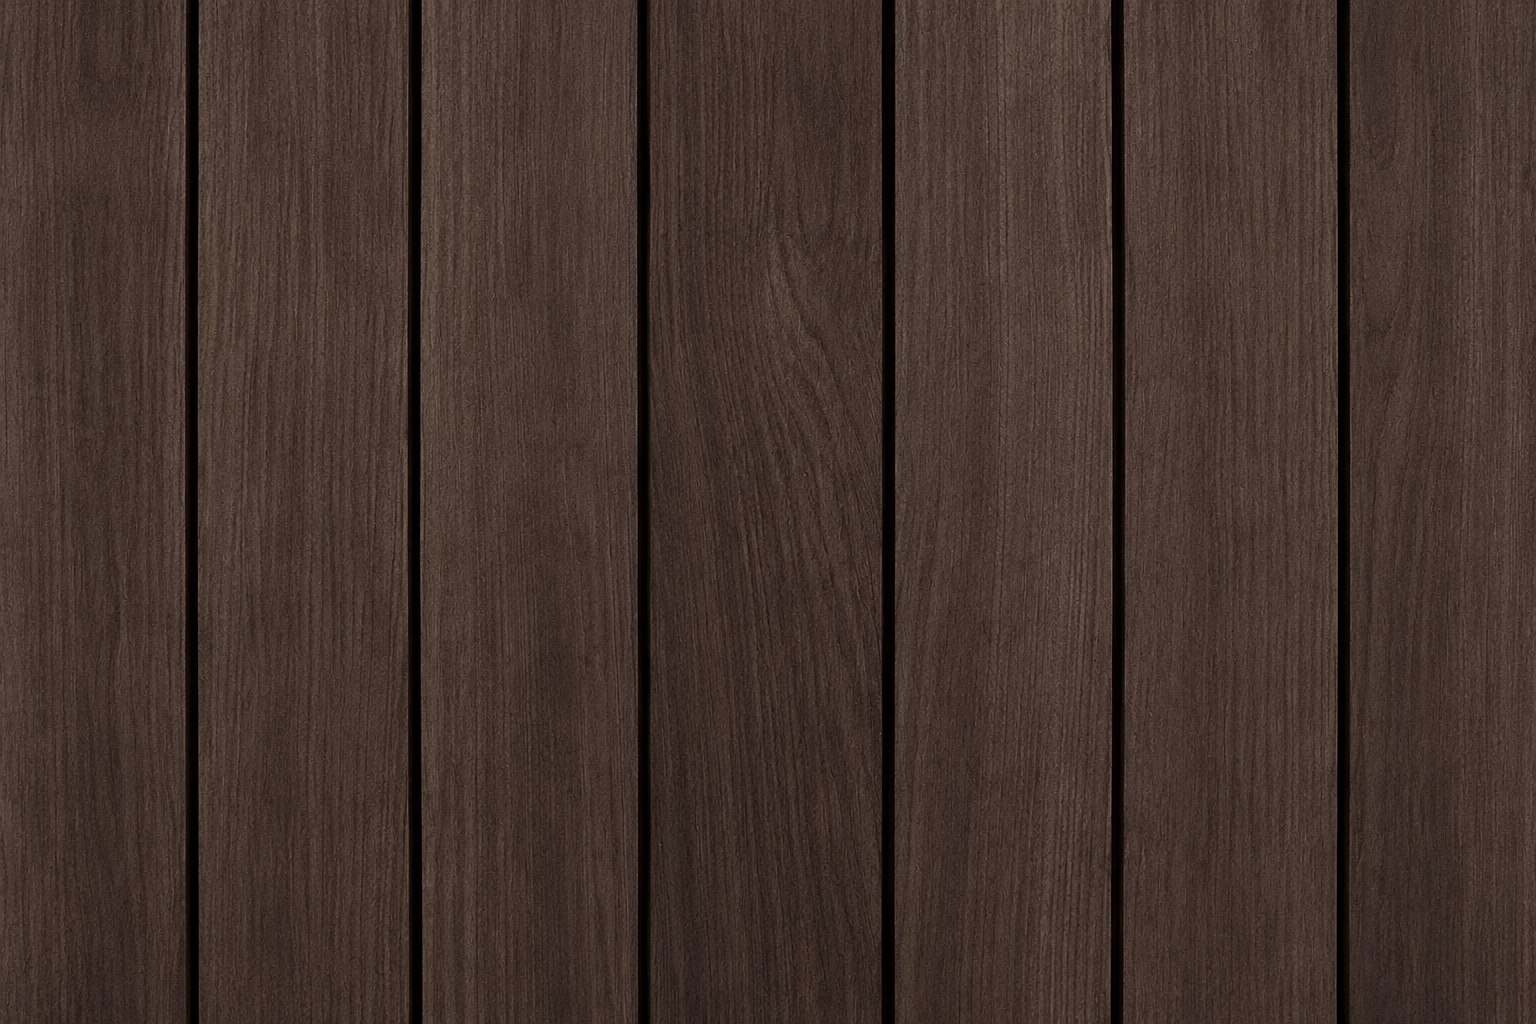
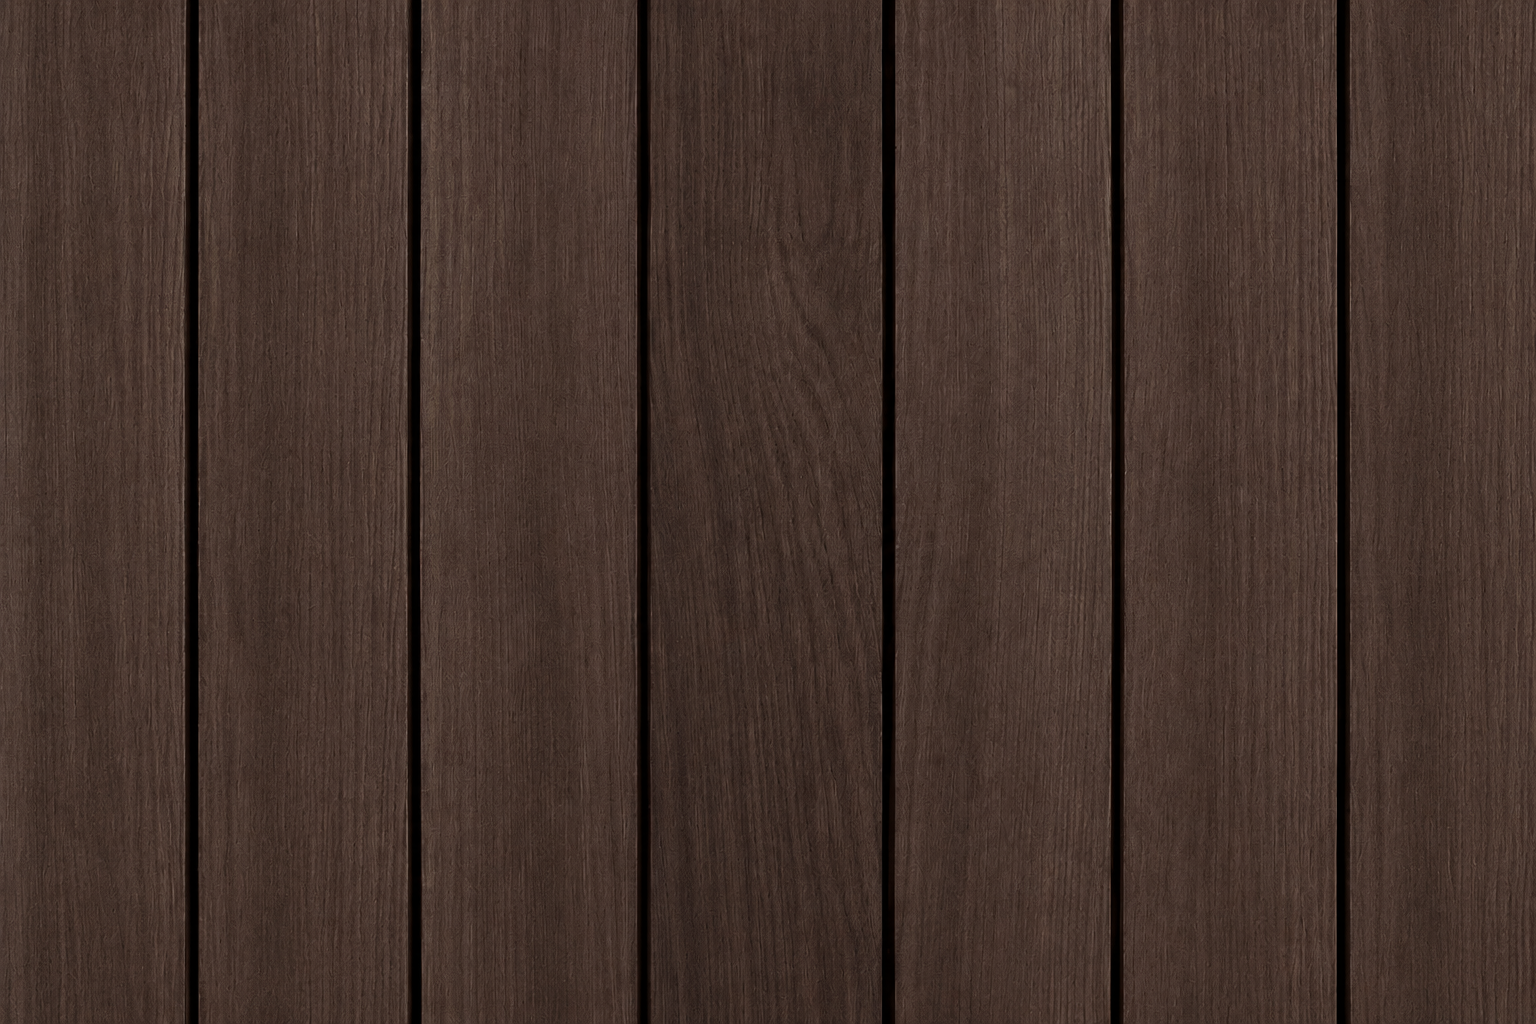
feat: add history management instructions and improve theme caching in Nginx configuration

diff --git a/ansible/usr/share/kiwiirc/static/themes/sdm-dark/theme.css b/ansible/usr/share/kiwiirc/static/themes/sdm-dark/theme.css
@@ -169,6 +169,11 @@ body, #app, .kiwi-wrap, .kiwi-workspace, .kiwi-container {
     z-index: 1 !important;
     width: 100% !important;
     max-width: 420px !important;
+    /* reserva o espaço final do card antes da fonte Nunito carregar — sem
+       isso, o fallback do sistema renderiza ~23px mais baixo e o card
+       "cresce"/reposiciona quando a Nunito troca, dando a impressão de
+       que a página rola para baixo ao carregar. */
+    min-height: 430px !important;
     margin: 0 auto !important;
     text-align: center !important;
     padding: 20px 44px !important;

diff --git a/ansible/usr/share/kiwiirc/static/themes/sdm/theme.css b/ansible/usr/share/kiwiirc/static/themes/sdm/theme.css
@@ -156,6 +156,11 @@ body, #app, .kiwi-wrap, .kiwi-workspace, .kiwi-container {
     z-index: 1 !important;
     width: 100% !important;
     max-width: 420px !important;
+    /* reserva o espaço final do card antes da fonte Nunito carregar — sem
+       isso, o fallback do sistema renderiza ~23px mais baixo e o card
+       "cresce"/reposiciona quando a Nunito troca, dando a impressão de
+       que a página rola para baixo ao carregar. */
+    min-height: 430px !important;
     margin: 0 auto !important;
     text-align: center !important;
     padding: 20px 44px !important;

diff --git a/README.md b/README.md
@@ -934,6 +934,22 @@ Ou via ChanServ (se o canal estiver registrado):
 
 > O modo `+H <entradas>:<segundos>` controla quantas mensagens e por quanto tempo o Ergo mantém por canal. Definir `0:0` desativa o armazenamento para aquele canal.
 
+**3. Verificar o modo de histórico atualmente ajustado no canal:**
+
+```irc
+/mode #canal
+```
+
+A resposta lista os modos ativos do canal; procure por `+H <entradas>:<segundos>` na saída (se o modo `+H` não aparecer, o canal está usando o padrão da rede, definido em `ircd.yaml`).
+
+**4. Voltar ao padrão (remover o override e usar o valor da rede):**
+
+```irc
+/mode #canal -H
+```
+
+Isso remove o modo `+H` do canal, fazendo-o voltar a usar o limite padrão definido na seção `history` do `ircd.yaml` (veja abaixo).
+
 ### Desativar histórico para toda a rede
 
 Edite `/usr/share/ergo/ircd.yaml` e ajuste a seção `history`:
@@ -964,6 +980,34 @@ sudo systemctl reload somdomato-ergo
 # Ou via IRC (requer oper)
 /quote REHASH
 ```
+
+**Verificar a configuração de histórico atualmente ajustada:**
+
+```bash
+# Ver a seção history do arquivo de configuração em uso
+grep -A 6 "^history:" /usr/share/ergo/ircd.yaml
+```
+
+**Voltar aos padrões da rede:**
+
+Os valores padrão do Ergo para a seção `history` são:
+
+```yaml
+history:
+    enabled: true
+    channel-length: 2048
+    client-length: 256
+    autoresize-window: 7d
+    autoreplay-on-join: 0
+    chathistory-maxmessages: 100
+    znc-maxmessages: 2048
+    query-cutoff: server-time
+    target-expiration:
+        enabled: false
+        duration: 1y
+```
+
+Restaure esses valores no `ircd.yaml` e recarregue a configuração (`systemctl reload somdomato-ergo` ou `/quote REHASH`).
 
 ### Apagar histórico de um usuário (DMs)
 
